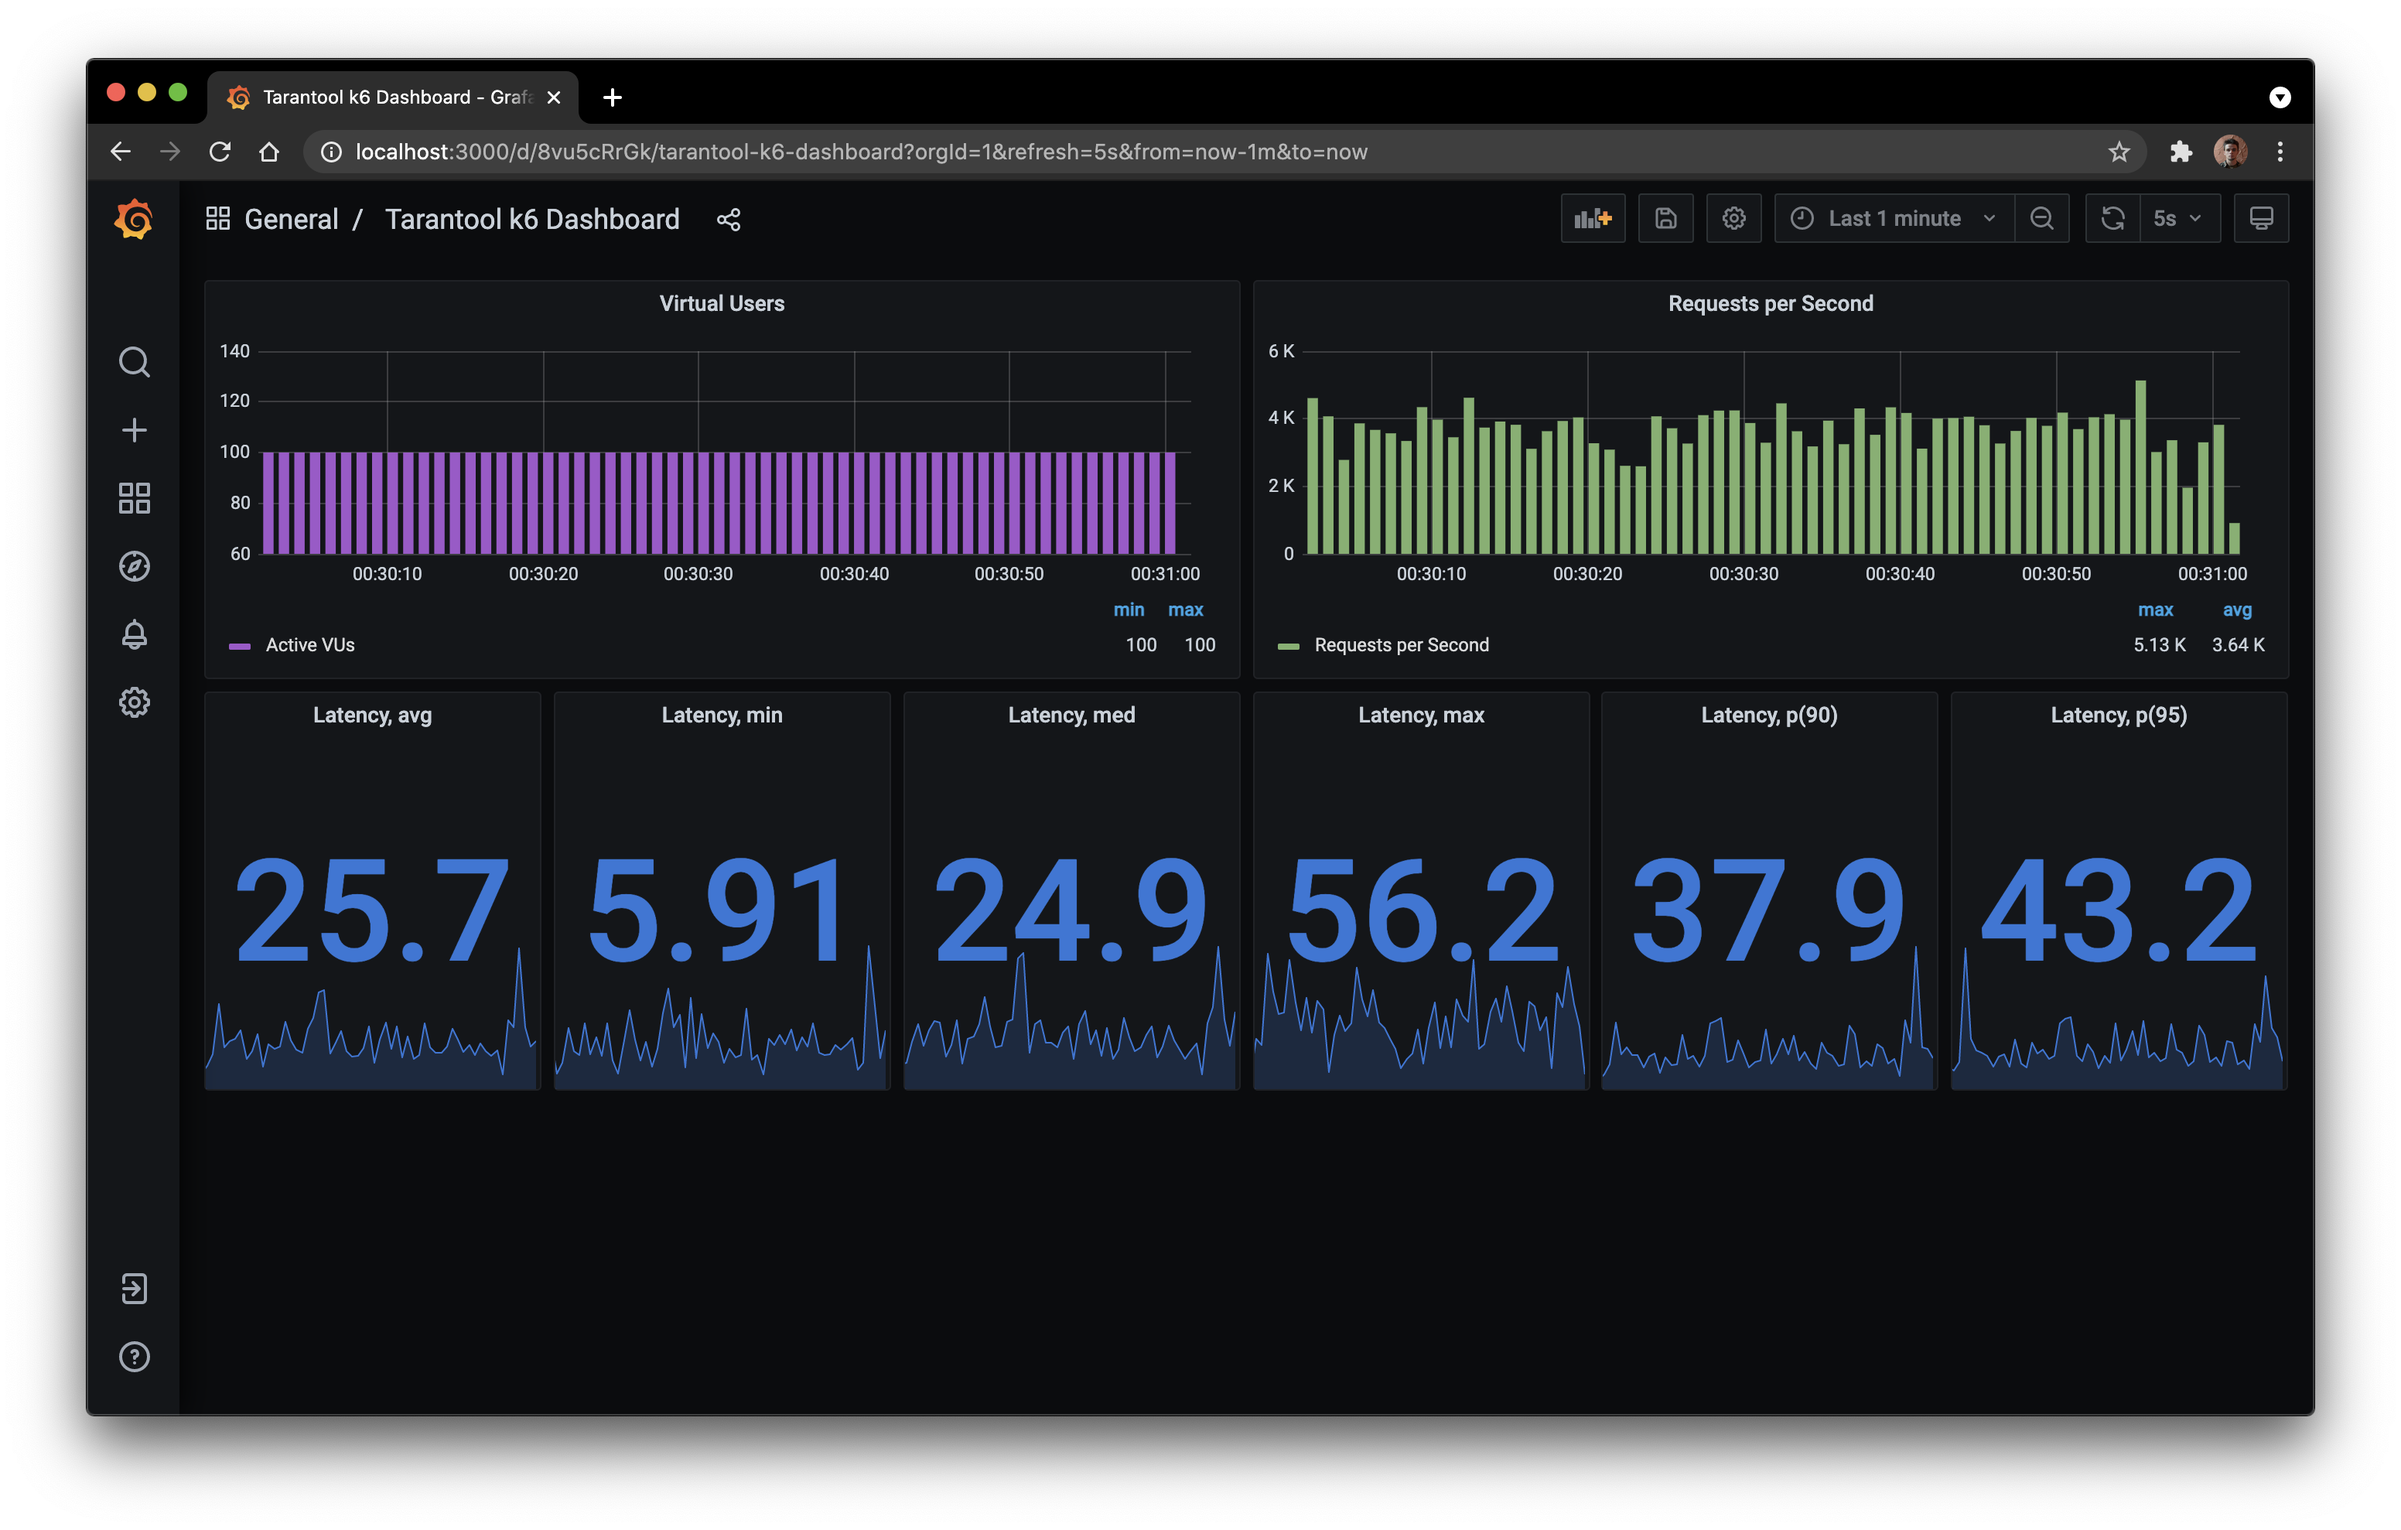
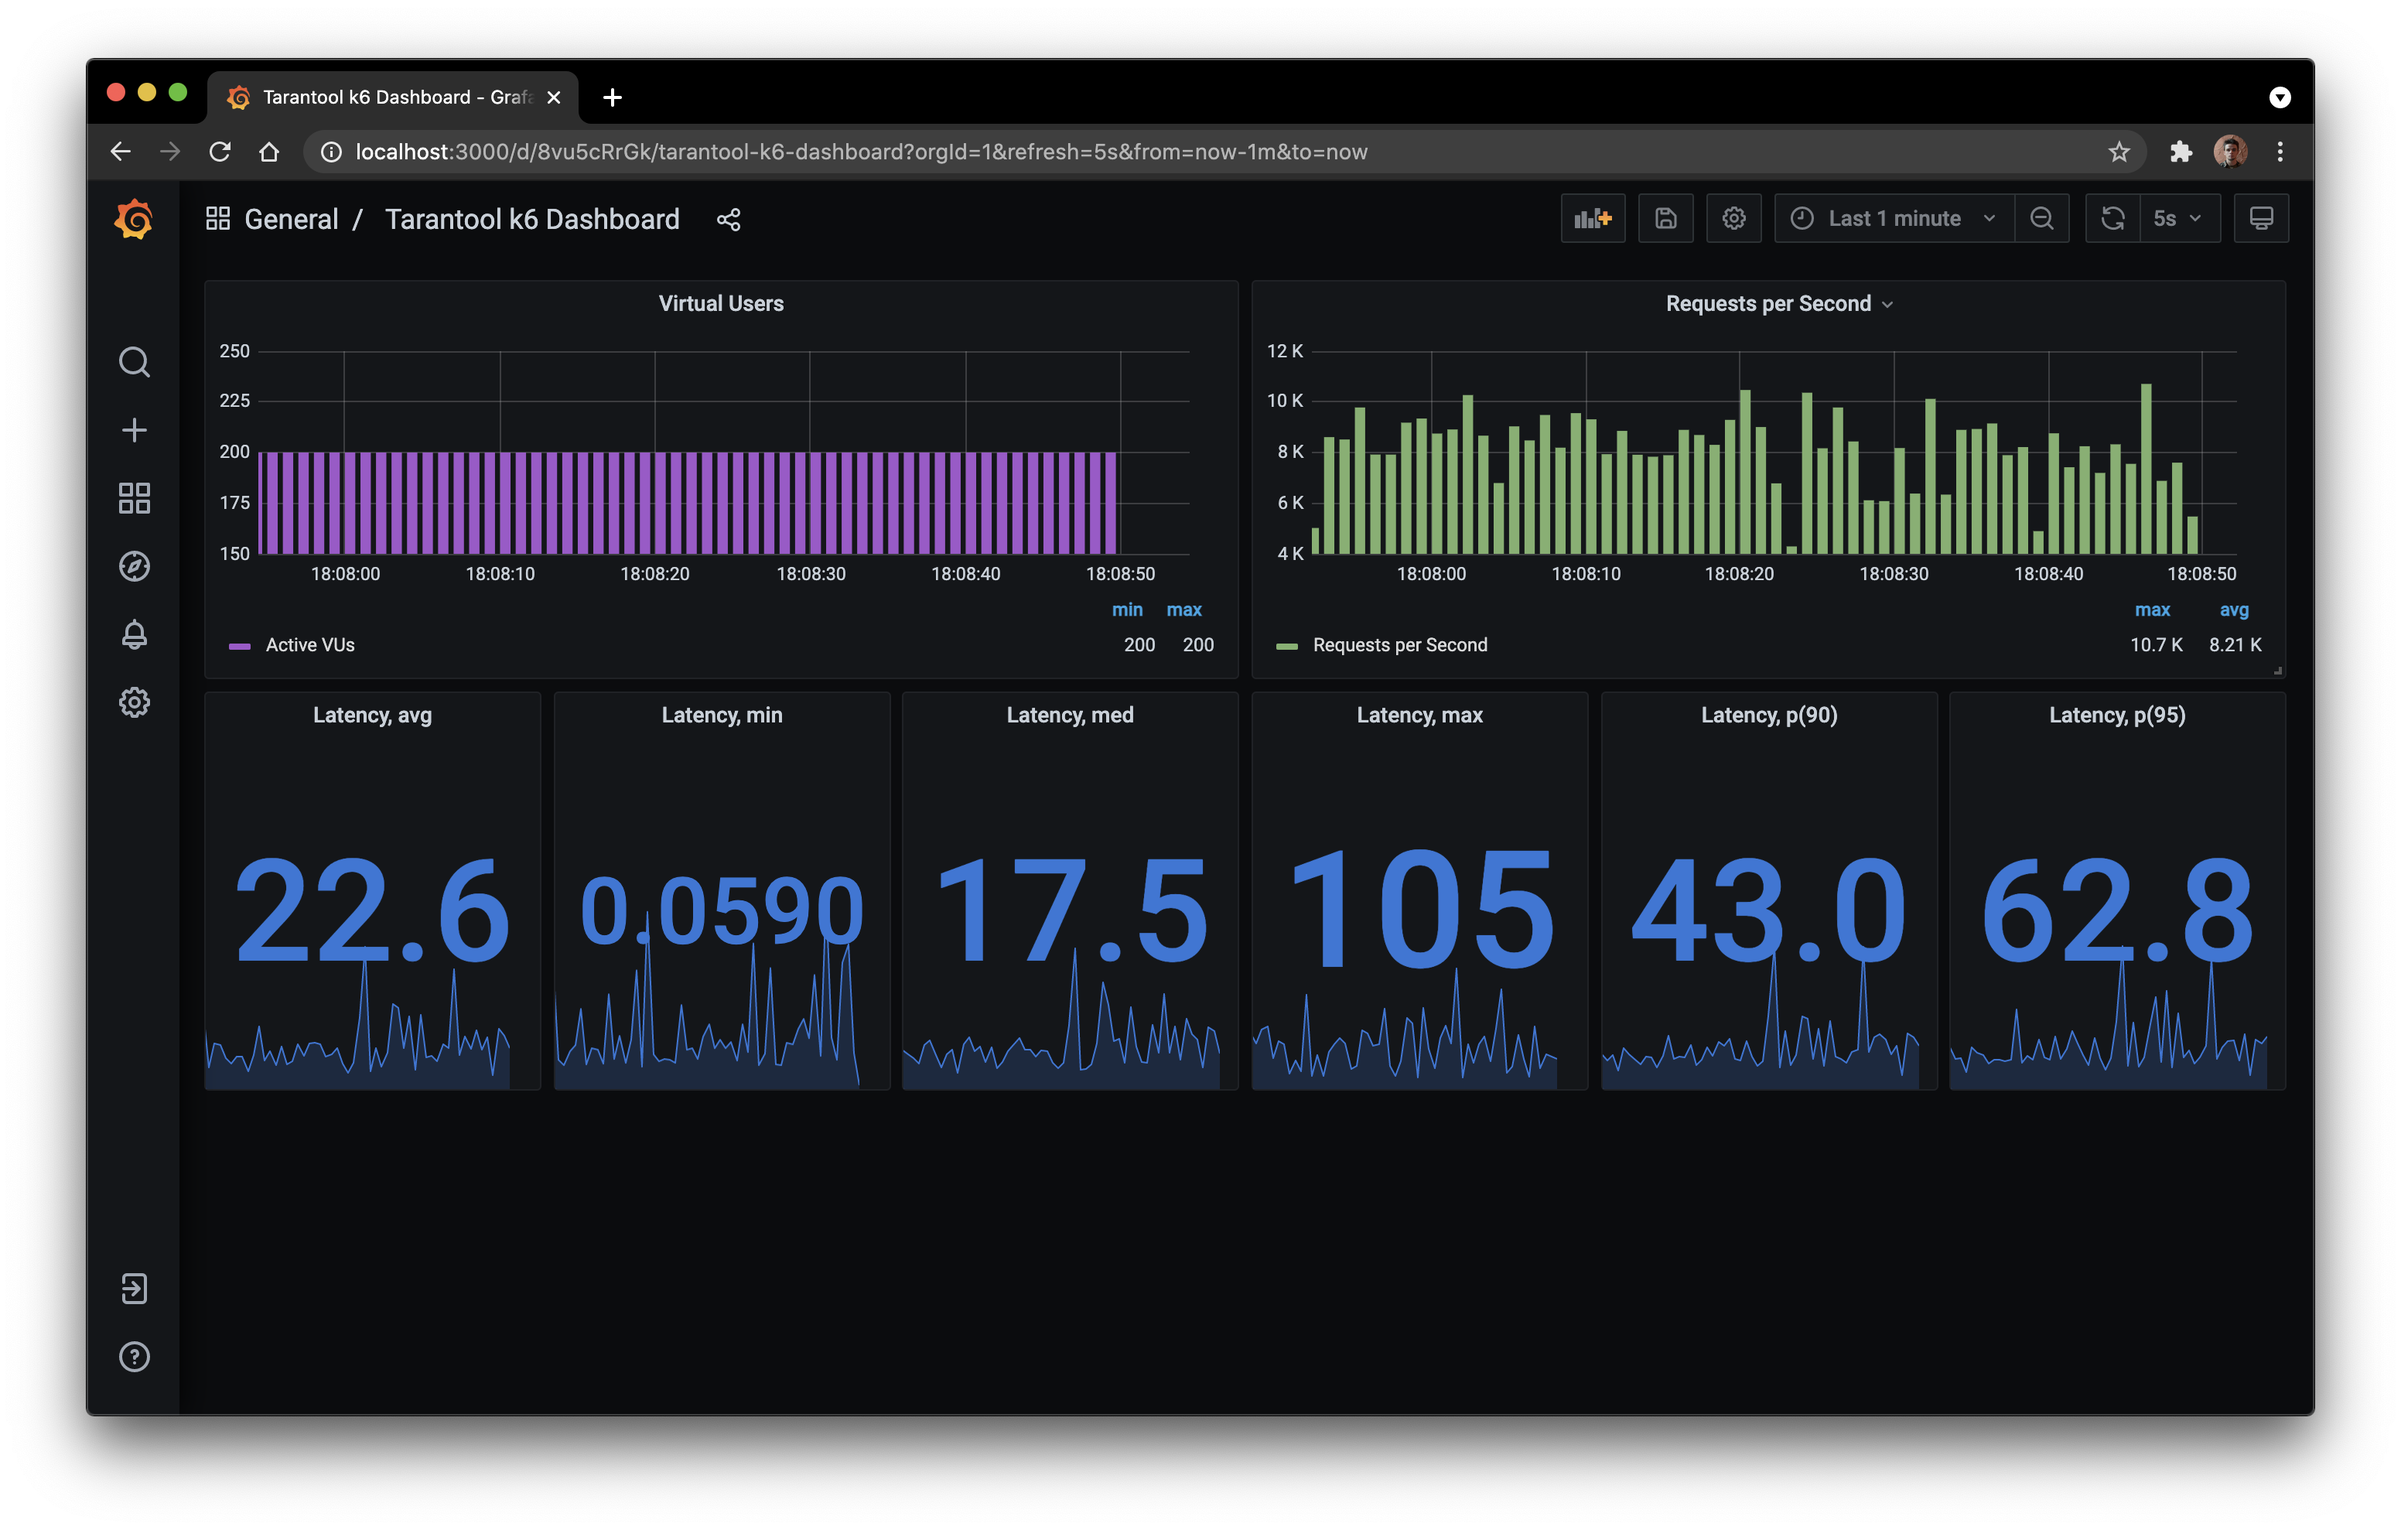
Update dashboard screenshot and test scenario

diff --git a/scenarios/test.js b/scenarios/test.js
@@ -10,18 +10,18 @@ export let options = {
       executor: "constant-arrival-rate",
       rate: 10000,
       timeUnit: "1s",
-      duration: "5m",
-      preAllocatedVUs: 4,
-      maxVUs: 4,
+      duration: "1m",
+      preAllocatedVUs: 100,
+      maxVUs: 100,
       exec: "conn1test",
     },
     conn2test: {
       executor: "constant-arrival-rate",
       rate: 10000,
       timeUnit: "1s",
-      duration: "5m",
-      preAllocatedVUs: 4,
-      maxVUs: 4,
+      duration: "1m",
+      preAllocatedVUs: 100,
+      maxVUs: 100,
       exec: "conn2test",
     },
   },
